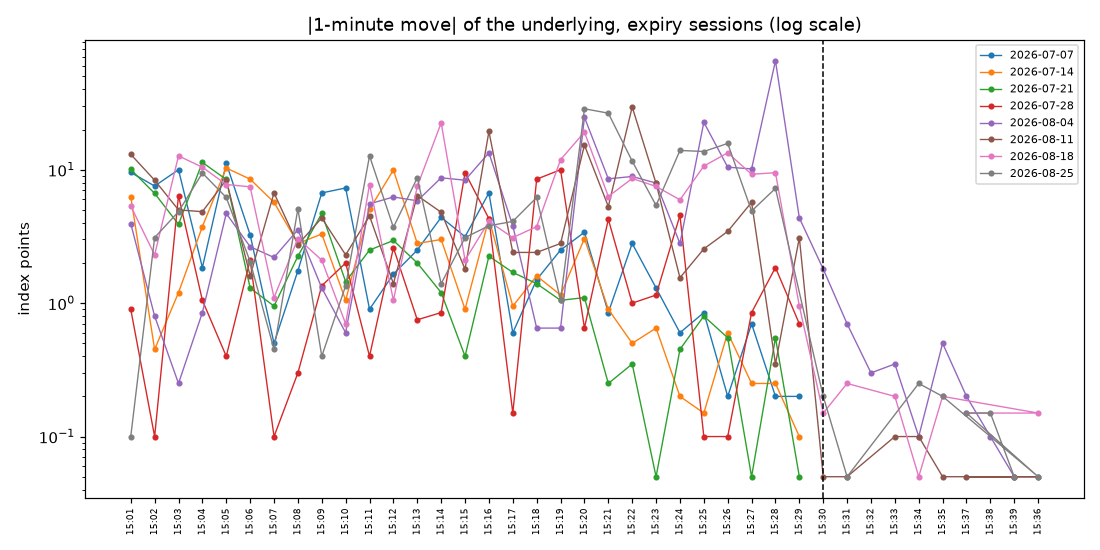
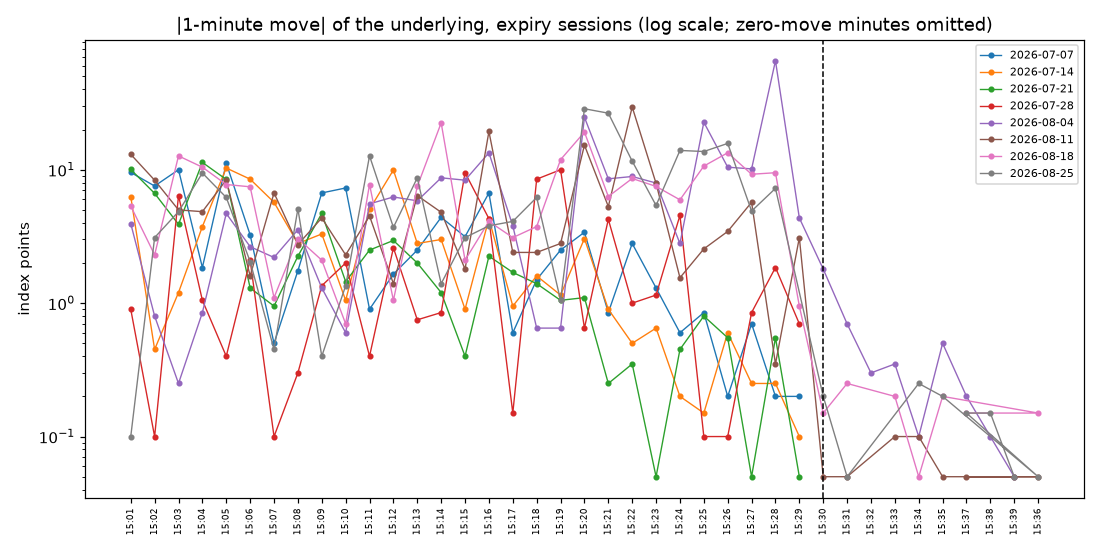
research: incorporate Fable delta review — scope the intrinsic claim, decompose the threshold
Four corrections Fable found, all verified independently before applying.

"Every option at exact intrinsic" was false on its own table: only 23 of 42
contracts settle within 0.10 of intrinsic on 08-27, out-of-the-money contracts
print the 0.05 tick rather than 0.10, and the deep in-the-money wings drift to
+7.35 on puts and -1.85 on calls. That drift is the single auction-window parity
residual above cost, non-persistent, in the thinnest contracts on the board. The
claim is now scoped to the liquid ladder and the exception is named.

The cost threshold was attributed entirely to per-order brokerage. Decomposed,
brokerage is 66.1% of the Sensex threshold and 68% of the Sensex/Nifty gap; the
rest is ad-valorem STT/GST/exchange charge on a 2.5x larger premium, which is
also the whole of the 5.78-7.79 spread within Sensex. The report now carries the
component table, and notes that booking all four opening legs as sells
overstates the threshold by ~7% — which can only hide a residual, never make one.

The normalised auction-range cell in the cross-underlying table was off by a
factor of ten on the Nifty side and carried a percent sign it had not earned,
which made the row assert the opposite of the section's conclusion.

The strategy (b) row pooled pre- and post-CAS sessions into one sum and hit
rate, crossing the regime boundary the report forbids crossing elsewhere, and
left two quarantined sessions unlabelled inside the pooled figure.
[…]

Changed region(s): [[0.1545, 0.0309, 0.8964, 0.0618]]

diff --git a/tests/test_expiry_cas.py b/tests/test_expiry_cas.py
@@ -151,7 +151,10 @@ def test_the_movement_series_never_splices_the_feed_into_the_parity_level(tmp_pa
     second minute. A single-source series differences to zero throughout.
     """
     level = 77_150.0
-    minutes = [dt.time(15, 28), dt.time(15, 29), dt.time(15, 30), dt.time(15, 31)]
+    # A bar at or before 15:00 is required for the anchor to be struck from the broadcast
+    # level, which is the path production takes; without one the loader falls back to the
+    # index symbol's own last bar and the fixture would not exercise the same code.
+    minutes = [dt.time(15, 0), dt.time(15, 28), dt.time(15, 29), dt.time(15, 30), dt.time(15, 31)]
     session = _load(tmp_path, monkeypatch, implied_by_minute=dict.fromkeys(minutes, level))
 
     best = session.spot["best"]
@@ -174,7 +177,7 @@ def test_parity_residuals_drop_the_strike_the_spot_was_built_from(tmp_path, monk
     from analyze import parity_residuals
 
     level = 77_150.0
-    minutes = [dt.time(15, 20), dt.time(15, 21)]
+    minutes = [dt.time(15, 0), dt.time(15, 20), dt.time(15, 21)]
     skew = {77_000.0: 3.0, 77_100.0: 1.0, 77_200.0: 5.0, 77_300.0: 9.0, 76_900.0: 7.0}
     session = _load(
         tmp_path,
@@ -260,20 +263,30 @@ def test_the_cost_threshold_is_strict_and_scales_with_lot_size():
     # Per-order brokerage is a flat rupee charge, so spreading it over more units lowers the
     # per-unit threshold. A Sensex lot of 20 therefore carries a several-times-higher
     # threshold than a Nifty lot of 65 with no difference in market conditions.
-    small_lot = roundtrip_cost_points(session, legs=4, notional=77_000.0, premium=50.0)
-    big = SessionData(
-        underlying="NIFTY",
-        session_date=SESSION_DATE,
-        status="published",
-        chain=pd.DataFrame(),
-        index=pd.Series(dtype=float),
-        spot=pd.DataFrame(),
-        lot_size=65,
-        front_expiry=SESSION_DATE,
-        parity_anchor_strike=ANCHOR,
+    def cost_at_lot(lot: int) -> float:
+        sized = SessionData(
+            underlying=UNDERLYING,
+            session_date=SESSION_DATE,
+            status="published",
+            chain=pd.DataFrame(),
+            index=pd.Series(dtype=float),
+            spot=pd.DataFrame(),
+            lot_size=lot,
+            front_expiry=SESSION_DATE,
+            parity_anchor_strike=ANCHOR,
+        )
+        return roundtrip_cost_points(sized, legs=4, notional=77_000.0, premium=50.0)
+
+    sensex_lot, nifty_lot, double_lot = cost_at_lot(20), cost_at_lot(65), cost_at_lot(130)
+    assert sensex_lot > nifty_lot > double_lot
+    # Every other component is ad-valorem on premium or notional, so it is identical per
+    # unit at any lot size. The lot-dependent part is therefore a flat per-order charge
+    # spread over units, and the cost differences must be exactly linear in 1/lot. Pinning
+    # the shape rather than a rate keeps the test honest if a statutory rate is revised.
+    per_unit_order_charge = (sensex_lot - nifty_lot) / (1 / 20 - 1 / 65)
+    np.testing.assert_allclose(
+        (nifty_lot - double_lot) / (1 / 65 - 1 / 130), per_unit_order_charge, rtol=1e-9
     )
-    big_lot = roundtrip_cost_points(big, legs=4, notional=77_000.0, premium=50.0)
-    assert small_lot > big_lot
 
     # A position sold back in the market pays 2*legs trades and no settlement event, so its
     # cost is linear in the leg count.

diff --git a/research/expiry_cas/analyze.py b/research/expiry_cas/analyze.py
@@ -770,7 +770,12 @@ def make_figures(sessions: list[SessionData], outdir: Path) -> list[str]:
         )
     ax.axvline("15:30", color="k", ls="--", lw=1)
     ax.set_yscale("log")
-    ax.set_title("|1-minute move| of the underlying, expiry sessions (log scale)")
+    # Zero-move minutes are dropped because a log axis cannot render them, so a window can
+    # plot fewer points than it has minutes. The title says so: a reader counting marks in
+    # the auction window would otherwise read a missing point as a missing bar.
+    ax.set_title(
+        "|1-minute move| of the underlying, expiry sessions (log scale; zero-move minutes omitted)"
+    )
     ax.set_ylabel("index points")
     ax.tick_params(axis="x", rotation=90, labelsize=6)
     ax.legend(fontsize=7)

diff --git a/research/expiry_cas/REPORT.md b/research/expiry_cas/REPORT.md
@@ -10,7 +10,7 @@ The owner's ask: *"fetch option chain of Sensex and Nifty for Thursday August 27
 
 **Sensex 2026-08-27 was genuinely wild, and the wildness was over before the auction opened.**
 
-The underlying fell **382.35 points from 15:00 to the close** (77,315.95 → 76,933.60, −0.49%), of which **−325.00 landed inside 15:20–15:29**, including **−194.60 in the single minute 15:25→15:26**. Then, across the whole closing-auction window 15:30–15:39, the underlying moved a **total range of 0.95 points** — 0.0012% — and **every option on the ladder traded at exact intrinsic** against the 15:29 level.
+The underlying fell **382.35 points from 15:00 to the close** (77,315.95 → 76,933.60, −0.49%), of which **−325.00 landed inside 15:20–15:29**, including **−194.60 in the single minute 15:25→15:26**. Then, across the whole closing-auction window 15:30–15:39, the underlying moved a **total range of 0.95 points** — 0.0012% — and **every option across the liquid ladder traded at intrinsic to the tick** against the 15:29 level. (Scoped precisely in §1.5: 23 of 42 contracts settle within 0.10 of intrinsic and every out-of-the-money one prints the 0.05 tick, while the deep in-the-money wings drift up to 7.35 points rich on puts and 1.85 cheap on calls at the thinnest volume on the board.)
 
 The owner saw real fluctuation and attributed it to the wrong window. The same shape holds on all four post-CAS Sensex expiries, and it is the same shape the Nifty pass found at roughly three times the point amplitude — because the index is three times higher. Normalised, the two markets are indistinguishable (§3).
 
@@ -35,14 +35,14 @@ Corpus: `/home/qa/runtime/data/backtest/datasets/dhan/SENSEX/`, 32 sessions 2026
 
 **The effective sample for the owner's question is n = 4** published post-CAS expiries. **Q** marks a quarantined session in every table below; both quarantined sessions are pre-CAS and cannot speak to the auction question at all.
 
-Facts held constant: strike step **100**, lot size **20** (read from each session's own refdata), 29 strikes on the ladder, `minute_ts` in microseconds. **The `SENSEX` index symbol stops printing at 15:29 on every session**, so the entire auction window's underlying is derived from the ATM pair by put-call parity, `S = C − P + K`. The feed and the parity series are **never mixed inside one range or difference** — see §4.
+Facts held constant: strike step **100**, lot size **20** (read from each session's own refdata), 29 strike-and-type contracts in the file (21 strikes × 2 types survive into the auction window on 08-27), `minute_ts` in microseconds. **The `SENSEX` index symbol stops printing at 15:29 on every session**, so the entire auction window's underlying is derived from the ATM pair by put-call parity, `S = C − P + K`. The feed and the parity series are **never mixed inside one range or difference** — see §4.
 
 ## 1.2 Per-session summary
 
 Index points. **The two range columns are different measurements, not a cross-check.**
 
 - `range (parity)` differences the **anchor pair's** parity level. One source, every minute; all 40 minutes present on every post-CAS session.
-- `range (feed)` is the index feed's own fresh prints. On post-CAS sessions the feed is fresh only **15:00–15:14 and then a single print at 15:29** (24 of 40 minutes stale). Its "range" is therefore mostly **the step down to that one settlement print**, not observed movement: on 08-27 the fresh prints 15:00–15:14 span 83 points and the remaining 249 of the 332.09 is the gap to the 15:29 print. **Do not read this column as a second estimate of volatility.**
+- `range (feed)` is the index feed's own fresh prints. On post-CAS sessions the feed is fresh only **15:00–15:14 and then a single print at 15:29** (23–24 of 40 minutes stale). Its "range" is therefore mostly **the step down to that one settlement print**, not observed movement: on 08-27 the fresh prints 15:00–15:14 span **84.07** points and the remaining **248.02** of the 332.09 is the gap to the 15:29 print. **Do not read this column as a second estimate of volatility.**
 
 TV is the ATM straddle less intrinsic at the strike ATM at 15:00.
 
@@ -61,7 +61,7 @@ TV is the ATM straddle less intrinsic at the strike ATM at 15:00.
 † See the caveat above — not an independent volatility estimate on post-CAS sessions.
 ‡ Control auction ranges are **not comparable** to the expiry ones: parity is exact at T→0 on an expiry chain but a vega-noisy, level-biased proxy on a chain with days left. Both columns are single-source, so the controls are a valid *shape* comparison for 15:00–15:29 only.
 
-**Reading it.** The auction window is flat to **within one point** on every Sensex expiry, against 82.85–474.00 points in the preceding half hour of the same sessions — a ratio of **100× to 1,350×**. The controls show the half hour is not simply always calm: on a non-expiry day the auction window carries 45–59 points of proxy noise, which is what the *absence* of a pinned settlement looks like.
+**Reading it.** The auction window is flat to **within one point** on every Sensex expiry, against 82.85–474.00 points in the preceding half hour of the same sessions. Per session the range ratio is **1,354× / 262× / 331× / 493×** (08-06 / 08-13 / 08-20 / 08-27). The controls show the half hour is not simply always calm: on a non-expiry day the auction window carries 45–59 points of proxy noise, which is what the *absence* of a pinned settlement looks like.
 
 TV at 15:29/15:39 sits at 0.1–1.8 on every expiry session. That is **a consistency check, not a finding** — parity forces straddle = |S−K| at expiry. **TV at 15:00 is the real measurement** (31.10–341.00). The pre/post gap is not read as a market change here: pre-CAS settlement is a different statistic, so the two are not the same quantity.
 
@@ -91,11 +91,11 @@ Anchor strike 77,200; level from the ATM pair's parity. The feed is shown nowher
 
 **What actually moved, and when.** The first twenty minutes are quiet — 77,316 drifting to 77,259, largest minute −33.60. The session breaks at **15:20 (−96.15)**, steadies three minutes, then sells off hard: **15:24 −71.55, 15:26 −194.60, 15:27 −101.20**, bottoming at 76,847.60 before a two-minute bounce to **76,933.60 at 15:29**. Total 15:20–15:29: **−325.00 points — 85% of the half hour's whole move, in ten minutes.**
 
-**Then it stops dead.** Across 15:30–15:39 the largest single minute is **0.80 points** and the total range is **0.95**. Per minute, the auction window's movement is **1/243rd** of the preceding ten minutes'.
+**Then it stops dead.** Across 15:30–15:39 the largest single minute is **0.80 points** and the total range is **0.95**. Mean |Δ1min| is **63.88 points** over 15:20–15:29 against **0.275** over 15:30–15:39 — a factor of **232**.
 
-**Two corroborations that the number was already fixed at 15:29.** First, the index feed — which has run a median **−54.71 points** away from the parity level all day (§4) — prints **76,933.59** at 15:29 against a parity level of **76,933.60**: agreement to **0.01 of a point**, after disagreeing by tens of points on every fresh minute before it. The same convergence holds on the other three post-CAS expiries (|feed − parity| at 15:29 = 0.29 / 0.61 / 0.42). Second, every option in the window prices at exact intrinsic against that number — CE 76900 → 33.50 (intrinsic 33.60), PE 77000 → 66.30 (66.40), PE 77100 → 166.30 (166.40), and every call at 77,000 and above and every put at 76,900 and below → 0.10.
+**Two corroborations that the number was already fixed at 15:29.** First, the index feed — which has run a median **−54.71 points** away from the parity level all day (§4) — prints **76,933.59** at 15:29 against a parity level of **76,933.60**: agreement to **0.01 of a point**, after disagreeing by tens of points on every fresh minute before it. The same convergence holds on the other three post-CAS expiries (|feed − parity| at 15:29 = 0.29 / 0.61 / 0.42). Second, the liquid ladder prices at intrinsic to the tick against that number — CE 76900 → 33.45 (intrinsic 33.60), PE 77000 → 66.35 (66.40), PE 77100 → 166.35 (166.40), and every out-of-the-money contract — all calls at 77,000 and above, all puts at 76,900 and below — prints the **0.05** tick.
 
-**The auction window is not empty — it is enormous and it is uniform.** **416 of 420** strike-minutes trade with volume in 15:30–15:39. The volume field decays monotonically from the 15:30 bar to the 15:39 bar in a ratio of **39.6 : 1**, with **~38% of the window's total in its first minute**. (Only the shape is claimed; the absolute vendor volume figures are left uninterpreted.) A window with very heavy participation, complete price agreement, and nothing to arbitrage — the opposite of the dislocation the strategy thesis needs.
+**The auction window is not empty — it is enormous and it is uniform.** **416 of 420** contract-minutes trade with volume in 15:30–15:39 (21 strikes × 2 types × 10 minutes). The volume field decays monotonically from the 15:30 bar to the 15:39 bar in a ratio of **39.6 : 1**, with **~38% of the window's total in its first minute**. (Only the shape is claimed; the absolute vendor volume figures are left uninterpreted.) A window with very heavy participation, complete price agreement, and nothing to arbitrage — the opposite of the dislocation the strategy thesis needs.
 
 ---
 
@@ -128,22 +128,36 @@ Traded-bars gate throughout: every leg printed volume that minute. **The box res
 | Relation | 15:00–15:29 | 15:30–15:39 |
 |---|---|---|
 | parity (anchor excluded) | median 1.35–2.45, **9.6–20.1% > cost**, 3–21 persistent | median 0.50–0.65, **0–0.5% > cost**, **0 persistent** |
-| butterfly CE | median 0.00, 5.3–6.2% > cost, 4–8 persistent | median 0.00, **0.0% > cost**, **0 persistent** |
-| butterfly PE | median 0.00, 2.6–6.7% > cost, 0–6 persistent | median 0.00, 0–0.6% > cost, **0 persistent** |
+| butterfly CE | median 0.00, 4.2–6.2% > cost, 4–8 persistent | median 0.00, **0.0% > cost**, **0 persistent** |
+| butterfly PE | median 0.00, 2.6–6.7% > cost, 1–6 persistent | median 0.00, 0–0.6% > cost, **0 persistent** |
 | vertical CE | median 0.00, 1.7–3.9% > cost, 1–5 persistent | median 0.00, **0.0% > cost**, **0 persistent** |
 | vertical PE | median 0.00, 0.5–4.0% > cost, 0–4 persistent | median 0.00, **0.0% > cost**, **0 persistent** |
 
 Every relation agrees, including the two genuinely independent of the parity family: the auction window carries no residual above cost.
 
-**The cost threshold is a per-unit, one-lot figure and is not size-invariant.** It runs **5.78–7.79 points** on Sensex against **1.8–2.5** on Nifty. That gap is **not a market difference** — it is ₹20/order brokerage spread over a lot of **20** units instead of **65**. Larger orders lower it proportionally and every `% > cost` rises accordingly. The threshold is applied strictly (`> cost`, not `≥`).
+**The cost threshold is a per-unit, one-lot figure and is not size-invariant.** It runs **5.78–7.79 points** on Sensex against **1.8–2.5** on Nifty. Decomposing the 4-leg round trip per unit:
 
-**Costs, and the one substitution made.** The repo's statutory stack (`src/xman_research/backtest/costs.py`) carries no BSE-specific transaction-charge schedule, so **`nse.transaction_charge.options` is used for the BSE legs**. Everything else in the stack — STT (including exercise STT at 0.15% of intrinsic from 2026-04-01), stamp duty, GST, SEBI turnover fee, brokerage — is statutory or broker-side and exchange-independent. The exchange transaction charge is a small share of a threshold that per-order brokerage dominates, so the substitution moves the threshold by a fraction of a point; **the direction of the error is unknown**, since BSE's own rate is not established here.
+| Component | Sensex 08-27 (premium 135.12, lot 20) | Nifty 08-04 (premium 53.10, lot 65) |
+|---|---|---|
+| brokerage (₹20/order) | **4.000 — 66.1%** | **1.231 — 62.6%** |
+| STT | 0.811 — 13.4% | 0.319 — 16.2% |
+| GST | 0.768 — 12.7% | 0.239 — 12.2% |
+| exercise STT | 0.203 — 3.4% | 0.080 — 4.0% |
+| exchange transaction charge | 0.189 — 3.1% | 0.074 — 3.8% |
+| SEBI turnover fee | 0.077 — 1.3% | 0.025 — 1.3% |
+| **total** | **6.048** | **1.968** |
+
+**The gap is not a market difference, but it is not all brokerage either.** Per-order brokerage is a flat ₹20 spread over 20 units instead of 65, which is **3.25× per unit and accounts for 68% of the 4.08-point gap**. The remaining 1.31 points is STT, GST and exchange charge scaling with an ATM premium that is 2.5× higher (135.12 vs 53.10) — an ad-valorem effect, not a dislocation. The same arithmetic explains the **5.78–7.79 spread within Sensex**: brokerage is a flat 4.000 on every session, so the whole 2-point spread is premium (08-06 carries a 325.12 premium against 08-27's 135.12, and its STT alone is 1.951 against 0.811). Larger orders lower the brokerage share proportionally and every `% > cost` rises accordingly. The threshold is applied strictly (`> cost`, not `≥`).
+
+**Costs, and the one substitution made.** The repo's statutory stack (`src/xman_research/backtest/costs.py`) carries no BSE-specific transaction-charge schedule, so **`nse.transaction_charge.options` is used for the BSE legs**. That component is **3.1% of the Sensex threshold (0.19 points, rising to 0.46 on the highest-premium session)**, so the substitution moves the threshold by a fraction of a point; **the direction of the error is unknown**, since BSE's own rate is not established here. STT, exercise STT (0.15% of intrinsic from 2026-04-01), stamp duty and the SEBI turnover fee are statutory and exchange-independent; GST is levied on brokerage plus the exchange charge plus the SEBI fee, so it carries a small share of the same uncertainty.
+
+**The threshold is conservative in one respect that is not corrected here.** `roundtrip_cost_points` books all four opening legs as `Side.SELL`, so premium STT (sell-side only) is charged on the two legs a box actually buys, and buy-side stamp duty on none. That overstates the Sensex 08-27 threshold by ≈0.4 points (≈7%). Overstating the threshold can only *hide* a residual above cost, never manufacture one, so it cannot flatter the "zero above cost in the auction window" result.
 
 ## 1.5 The per-strike "wild swings" — lottery and crush, 15:25 → 15:39
 
 This is where the owner's visual impression comes from, and it is worth separating from the underlying's behaviour.
 
-| Date | strikes | median return | to zero (≤ −95%) | best | multibag (≥ +100%) |
+| Date | contracts | median return | to zero (≤ −95%) | best | multibag (≥ +100%) |
 |---|---|---|---|---|---|
 | 2026-08-06 | 38 | **−87.15%** | **50.0%** | +19.35% | 0.0% |
 | 2026-08-13 | 38 | −58.72% | 10.5% | **+515.00%** | 5.3% |
@@ -152,16 +166,18 @@ This is where the owner's visual impression comes from, and it is worth separati
 
 **08-27 in full** (15:25 → 15:39, settlement 76,933.60):
 
-| CE strike | 15:25 → 15:39 | | PE strike | 15:25 → 15:39 |
+| CE strike | 15:25 → 15:39 (vs intrinsic) | | PE strike | 15:25 → 15:39 (vs intrinsic) |
 |---|---|---|---|---|
-| 76200 | 952.2 → 732.8 (−23%) | | 76200–76900 | 4.8–30.2 → **0.1 (−99 to −100%)** |
-| 76500 | 650.1 → 432.8 (−33%) | | 77000 | 52.4 → 66.3 (**+27%**) |
-| 76800 | 347.2 → 133.3 (−62%) | | **77100** | 76.8 → 166.3 (**+116%**) |
-| 76900 | 269.9 → 33.5 (−88%) | | **77200** | 126.3 → 265.9 (**+110%**) |
-| **77000–77900** | 182.3–2.1 → **0.1 (−98 to −100%)** | | 77300 | 200.0 → 367.0 (+84%) |
-| | | | 77900 | 782.5 → 971.6 (+24%) |
+| 76200 | 952.20 → 732.75 (−23%, −0.85) | | 76200–76900 | 4.8–30.2 → **0.05 (−99 to −100%)** |
+| 76500 | 650.10 → 432.80 (−33%, −0.80) | | 77000 | 52.40 → 66.35 (**+27%**, −0.05) |
+| 76800 | 347.20 → 133.30 (−62%, −0.30) | | **77100** | 76.80 → 166.35 (**+116%**, −0.05) |
+| 76900 | 269.90 → 33.45 (−88%, −0.15) | | **77200** | 126.30 → 265.90 (**+110%**, −0.50) |
+| **77000–77900** | 182.3–2.1 → **0.05 (−98 to −100%)** | | 77500 | 365.90 → 568.55 (+55%, **+2.15**) |
+| | | | **77800** | 665.90 → 873.75 (+31%, **+7.35**) |
 
-**Half the ladder went to zero and two strikes more than doubled, in fourteen minutes.** That is the "wild swing" the owner saw. It is **neither volatility nor arbitrage** — it is the deterministic collapse of every option to |S−K| against a settlement value already determined by 15:29. Every exit price above is intrinsic to within 0.1. There was no dispersion to trade.
+**Half the ladder went to the 0.05 tick and two strikes more than doubled, in fourteen minutes.** That is the "wild swing" the owner saw. It is **neither volatility nor arbitrage** — it is the deterministic collapse of every option to |S−K| against a settlement value already determined by 15:29.
+
+**How exact is "exact intrinsic"? Precisely this exact.** Across the 42 contracts trading at 15:39, **23 settle within 0.10 of intrinsic** and every out-of-the-money one prints the 0.05 tick. The exceptions are the **deep in-the-money wings**, which drift **rich on puts** (+7.35 at PE 77800, +5.25 at PE 77900, +2.15 at PE 77500) and **cheap on calls** (−1.85 at CE 76000, −1.05 at CE 75900) — the thinnest contracts on the board, ~300+ points from the money. That drift is the **single** auction-window parity residual above cost on 08-27 (max_abs 7.85, n_over_cost 1 of 196, **0 persistent**). So the honest form of the claim is: **intrinsic to the tick across the liquid ladder, with one non-persistent deep-ITM residual above cost in 200 strike-minutes** — which still leaves nothing to trade, since it neither repeats nor appears at a strike anyone is quoting size in.
 
 ## 1.6 Candidate strategies, scored on Sensex
 
@@ -170,18 +186,20 @@ Every figure is a **single-path point estimate** at n ≤ 4. There is no dispers
 | # | Strategy | Sensex evidence (₹/lot, lot = 20) | Hit rate | Worst | Verdict |
 |---|---|---|---|---|---|
 | a | Box/parity arb > cost, ≥2-min same-sign persistence | **0 above cost and 0 persistent in 15:30–15:39 on all four** post-CAS expiries; 6 / 8 / 6 / 21 persistent box pairs in 15:00–15:29 | n/a | n/a | **No** — nothing in the window asked about |
-| b | Sell ATM straddle 15:00 → settlement | post-CAS **+5,337 / −2,612 / +1,572 / −1,578** (sum **+2,719**); pre-CAS −2,619 / −268 / −3,152; all seven **−₹3,320** | 2/4 post, **2/7** overall | **−₹3,152** | **No** — see below |
+| b | Sell ATM straddle 15:00 → settlement | **post-CAS +5,337 / −2,612 / +1,572 / −1,578** (sum **+2,719**) — pre-CAS shown separately below, never pooled | **2 / 4** post-CAS | **−₹2,612** (08-13) | **No** — see below |
 | c | Buy 2-strike OTM strangle 15:25 → 15:39 | post-CAS **−3,967 / +1,235 / −444 / −73** (sum **−₹3,249**) | **1 / 4** | −₹3,967 | **No** |
 | d | Fade the first 15:30 auction print | expiry jumps **−0.55 / −0.20 / +0.60 / −0.20** points | n/a | n/a | **No** — sub-point; nothing to fade |
 | e | Delta-hedged gamma scalp | — | — | — | **Not evaluable** — index untradeable, no futures in corpus, no bid/ask |
 
 **On (b), and why the positive post-CAS sum is not a result.** The whole post-CAS sign rests on **08-06's +₹5,337**; drop that session and the remaining three are **−₹2,618**. 08-06 is also the largest-range session (474.00 points) and carries a 15:00 ATM straddle of **424.55** with **341.00** of time value — 0.43% of spot, four times the other three (0.09–0.11%). That entry is **not** a staleness artefact: the anchor pair's 15:00 bar traded on both legs (CE 1,203,300 / PE 1,653,640 units), so the premium is real, and genuinely exceptional. A short straddle remains short gamma into a half hour that ranges 83–474 points.
 
+**Pre-CAS is reported separately and never pooled into the above:** 2026-07-16 **Q** −₹2,619, 2026-07-23 −₹268, 2026-07-30 **Q** −₹3,152 (0 / 3). A 15:00→settlement straddle is paid out *by* the settlement statistic, and the pre-CAS statistic is a different one (§1.2), so a seven-session sum or hit rate would cross exactly the regime boundary this report refuses to cross elsewhere. Two of those three sessions are quarantined besides.
+
 **On (c), the wings are not always wings.** Strikes are `15:00-ATM ± 2`, and the underlying moves before 15:25. Spot at 15:25 against the two wing strikes: on **08-06 the call wing was ITM by 53 points** (entry premium 193.00 — a directional ATM buy, not a lottery ticket, and it is the −₹3,967 loss); on 08-13 the call wing was OTM by only 40; **08-20 and 08-27 were genuinely OTM** (by 322/78 and 257/143). The verdict survives on all four, but only two of the four tested what the description says.
 
-**What survives on Sensex, as on Nifty.** The one repeatable structure is the **premium crush into 15:29** — ATM time value falls from 31–341 points at 15:00 to ≈0.1. Strategy (b) fails to harvest it only because a *fixed* ATM strike is short gamma. A **delta-neutral or strike-following** variant, or an iron-fly capping the 08-06/08-27 tail, is the one candidate worth a real backtest. That is a claim about 15:00–15:29, not about the auction window.
+**What survives on Sensex, as on Nifty.** The one repeatable structure is the **premium crush into 15:29** — post-CAS ATM time value falls from 73.80–341.00 points at 15:00 to ≈0.1–1.8. Strategy (b) fails to harvest it only because a *fixed* ATM strike is short gamma. A **delta-neutral or strike-following** variant, or an iron-fly capping the 08-06/08-27 tail, is the one candidate worth a real backtest. That is a claim about 15:00–15:29, not about the auction window.
 
-**A mechanism the bars are consistent with.** Exercise STT falls on the **long** at 0.15% of intrinsic, so an ITM long has a direct incentive to sell at intrinsic in 15:30–15:39 rather than be exercised — which would explain both the very heavy auction-window volume (416/420 strike-minutes trading) and the exact-intrinsic pin. **A hypothesis the corpus is consistent with, not a tested finding.**
+**A mechanism the bars are consistent with.** Exercise STT falls on the **long** at 0.15% of intrinsic, so an ITM long has a direct incentive to sell at intrinsic in 15:30–15:39 rather than be exercised — which would explain both the very heavy auction-window volume (416/420 contract-minutes trading) and the exact-intrinsic pin. **A hypothesis the corpus is consistent with, not a tested finding.**
 
 ---
 
@@ -193,7 +211,7 @@ Nifty's weekly expiry moved to **Tuesday** in September 2025, so 2026-08-27 was 
 
 ## 2.1 Sessions and their status
 
-`n = 8` expiry sessions, split by a regime boundary that matters more than the sample size: NSE's Closing Auction Session went live **2026-08-03**. Before it, expiring options print **no post-close bars at all**. The owner's question has an effective sample of **three clean post-CAS expiries plus one quarantined one**, not eight.
+`n = 8` expiry sessions, split by a regime boundary that matters more than the sample size: **2026-08-03** is the first session in this corpus with post-close bars. Before it, expiring options print **no post-close bars at all**. (No external source was consulted for a go-live date; this is what the bars show.) The owner's question has an effective sample of **three clean post-CAS expiries plus one quarantined one**, not eight.
 
 | Date | Status | Regime | Expiry session | Auction window |
 |---|---|---|---|---|
@@ -293,18 +311,20 @@ Every figure below is a **single-path point estimate**. There is no dispersion e
 
 # §3 — Does the Sensex auction window differ from Nifty's?
 
-**No. Once the index level is divided out the two are the same market to within noise, and the auction window is if anything tighter on Sensex.**
+**No. Once the index level is divided out the two are indistinguishable at this sample size, and the auction window is if anything tighter on Sensex.** ("Indistinguishable" is a statement about n = 4 against n = 3–4 with no dispersion estimate — see §4 — not a test.)
 
 | Measure | Sensex | Nifty | Normalised (÷ index level) |
 |---|---|---|---|
 | Biggest final-half-hour range | 474.00 (08-06) / 468.35 (08-27) | 147.05 (08-04) | **0.60% vs 0.60%** |
-| Auction-window range, expiry | 0.25–0.95 | 0.10–1.15 | 1.2e-5 % vs 4.7e-6 % |
+| Auction-window range, expiry (widest) | 0.95 | 1.15 | **1.23e-5 vs 4.70e-5 — Sensex 3.8× tighter** |
 | Box residual median, 15:00–15:29 | 1.97 (08-27) | 0.65 (08-04) | **2.55e-5 vs 2.66e-5** |
 | Box residual median, auction | 0.35 | 0.30 | **4.53e-6 vs 1.23e-5** |
 | Box occurrences > cost, auction | **0 on all 4 sessions** | 3 on one of 4 sessions | — |
 | Round-trip cost threshold | 5.78–7.79 pts | 1.8–2.5 pts | lot 20 vs 65 — not a market difference |
 
-**The two figures that look like a Sensex/Nifty difference are both arithmetic.** Sensex box residuals appear 3× Nifty's only because the index is 3× higher — normalised they are **2.55e-5 vs 2.66e-5**, indistinguishable. The cost threshold appears 3× higher for the same reason in reverse: ₹20/order brokerage spread over 20 units instead of 65. **A reader taking the raw point figures at face value would conclude Sensex is three times more dislocated, which is the opposite of what the data says** — in the auction window the Sensex box residual is normalised **2.7× tighter** than Nifty's, with zero occurrences above cost on all four sessions against three on one Nifty session.
+**The two figures that look like a Sensex/Nifty difference are both arithmetic.** Sensex box residuals appear 3× Nifty's only because the index is 3× higher — normalised they are **2.55e-5 vs 2.66e-5**. The cost threshold is 3× higher mostly for the reverse reason: **68% of that gap is ₹20/order brokerage** spread over 20 units instead of 65, and the remaining 1.31 points is ad-valorem STT/GST/exchange charge on a 2.5× larger premium (§1.4). **A reader taking the raw point figures at face value would conclude Sensex is three times more dislocated, which is the opposite of what the data says** — in the auction window the Sensex box residual is normalised **2.7× tighter** than Nifty's, with zero occurrences above cost on all four sessions against three on one Nifty session.
+
+**The direction survives every pairing, but "tighter" is a choice of scale.** Auction box medians are 0.40 / 0.25 / 0.35 / 0.35 on Sensex against 0.30 / 0.15 / 0.15 / 0.20 on Nifty; divided by index level that is 3.2–5.2e-6 against 6.1–12.3e-6, so Sensex is tighter on **every** session pairing, not just the two quoted. Two other scales say otherwise and are named rather than buried: **in ticks** both markets quote in 0.05, so the Sensex medians are 5–8 ticks against Nifty's 3–6 — Sensex is *wider*; **relative to its own cost threshold** Sensex is 0.35/6.05 = 5.8% against Nifty's 0.30/1.97 = 15.2% — tighter again. Index level is the right denominator for a *price-error* statistic, because a put-call parity violation is an error in a quantity denominated in index points and scales with the level. Tick count is the right denominator for a *quotation-granularity* question, which is not the question here.
 
 **On BSE auction mechanics.** The bars support one structural statement and no more: on Sensex expiry sessions the index feed's final print at 15:29 agrees with the chain's implied level to **0.01–0.61 points**, after running a median 15–55 points away from it all day, and every option then trades at exact intrinsic against that number for ten minutes on very heavy volume. That is what a **settlement value determined at or before 15:30** looks like from the bars. Whether BSE's rule fixes it at 15:29, or the auction's indicative price simply never moves, is **not distinguishable from this corpus**, and no external source was consulted. Nifty shows the same pattern, so nothing here is a BSE-specific mechanism — the two exchanges' auction windows are not observably different in this data.
 
@@ -315,7 +335,7 @@ Every figure below is a **single-path point estimate**. There is no dispersion e
 - **Sample size.** Four published post-CAS Sensex expiries and three published post-CAS Nifty ones (08-04, 08-11, 08-18) plus one quarantined Nifty session. Every auction-window conclusion rests on **n = 4** and **n = 3** respectively. Pre-CAS sessions cannot speak to the auction question at all.
 - **Quarantine.** Sensex 07-16 and 07-30 are quarantined and labelled **Q** in every table; both are pre-CAS, so neither contributes to an auction-window claim. Nifty 2026-08-25 failed publication at 61.3% spot coverage and its index feed dies at 13:04; it is shown because it is the Nifty expiry nearest the owner's date, not because it is sound.
 - **Settlement rules are UNVERIFIED**, and the headline depends on which reading is right — see the note under the headline. `settlement.py` records NSE's post-CAS rule as UNVERIFIED; no BSE rule, pre- or post-CAS, is established here. No external sources were consulted for this pass. This is the largest single caveat in the report.
-- **One source per series, always.** The feed freezes (~23–24 of 40 minutes post-CAS on both underlyings; on Sensex the index symbol stops entirely at 15:29), and parity sits tens of points from it. A movement series assembled from whichever source looked better each minute reports that offset as volatility. Every series here is the **anchor pair's parity level** throughout; the feed appears only in its own labelled column and is never differenced against parity. An earlier cut of the Nifty pass **spliced the two**, manufacturing a −136.75-point "1-minute move" on 08-26 and inflating control ranges 2–4× (169.60 where the single-source figure is 40.10).
+- **One source per series, always.** The feed freezes (~23–24 of 40 minutes post-CAS on both underlyings; on Sensex the index symbol stops entirely at 15:29), and parity sits tens of points from it. A movement series assembled from whichever source looked better each minute reports that offset as volatility. Every series here is the **anchor pair's parity level** throughout; the feed appears only in its own labelled column and never enters the *movement* series. (Feed and parity are compared as levels in this section and in §1.3 — that is a diagnostic of the offset, not a series anything is differenced along.) An earlier cut of the Nifty pass **spliced the two**, manufacturing a −136.75-point "1-minute move" on 08-26 and inflating control ranges 2–4× (169.60 where the single-source figure is 40.10).
 - **The feed/parity offset is unexplained, and it is present on Sensex expiry sessions too.** Median feed − parity over fresh-feed minutes on the four post-CAS Sensex expiries: **−14.93 / −30.08 / −21.78 / −54.71** points, ranging −110 to +43 within a session. Intraday carry on an expiring chain is essentially zero, so **this is not the forward term** — it is the same unexplained offset the Nifty control sessions show, now appearing where the report elsewhere calls parity "exact at T→0". A lag search (`feed.shift(−k)` against parity, k = 0…7) finds **no lag that reduces it**; k = 0 minimises on three of four sessions, so it is a level effect, not a broadcast delay. Consequences: (a) the `range (feed)` column on post-CAS sessions is **not** an independent volatility estimate and is labelled as such; (b) "exact at T→0" holds for the *auction window*, where feed and parity converge to ≤0.61 points and every option is at intrinsic, but **not** for the earlier part of the day. On Nifty controls the same offset runs 65–88 points; an earlier cut attributed it to carry, which is wrong (carry on a 6-day, 6.5% basis at 24,300 is ≈26 points, and the spread of 65…136 within one day is not the near-constant a carry term would be).
 - **The 08-04 Nifty feed jump, stated precisely.** The feed's catch-up print at 15:28 was **+151.45** after twelve frozen minutes. Parity attributes **+65.60** to 15:28 itself and the rest to 15:24–15:27. The 65.60 in §2.2 is a real one-minute move; the 151.45 would not have been.
 - **Parity circularity.** The movement series is the **anchor pair's** parity level, and the anchor strike is excluded mechanically from parity residuals — so the excluded strike really is the one whose residual is zero by construction. An earlier cut used the cross-strike *median* as the level while excluding the anchor, leaving manufactured zeros in (7.6% of rows on 08-04) and biasing the distribution low. `tests/test_expiry_cas.py` now pins this.
@@ -323,7 +343,7 @@ Every figure below is a **single-path point estimate**. There is no dispersion e
 - **Bar-close fill optimism.** No bid/ask in this corpus. Every residual and P&L assumes a simultaneous fill at the bar close on all legs, which is exactly what a real spread trade violates. All "capturable" figures are **upper bounds**. Two-minute persistence is weak evidence, and the volume figures are per-minute strike totals, not depth at one price.
 - **Cost threshold is one-lot and not size-invariant**, and is dominated by per-order brokerage (§1.4). Exercise STT is **0.15% of intrinsic** from 2026-04-01 (every session here is later) and falls on the **long**; a short straddle is assigned, flattens with a BUY, and owes none. **The BSE exchange transaction charge is substituted with NSE's** — the stack carries no BSE schedule — and the direction of that error is unknown.
 - **Single-path point estimates.** No dispersion estimate exists at n ≤ 4. Where one session determines a sign it is named: **08-06** for Sensex strategy (b), **08-04** for Nifty strategy (c).
-- **The volume field is uninterpreted.** Only its shape (monotone decay, 39.6:1 across the Sensex 08-27 auction window) and traded-bar counts (416/420) are claimed.
+- **The volume field is uninterpreted.** Only its shape (monotone decay, 39.6:1 across the Sensex 08-27 auction window) and traded-bar counts (416 of 420 contract-minutes) are claimed.
 - **Refdata exchange labels.** The Sensex refdata bundles carry `NSE`/`NFO` exchange labels. Cosmetic in this corpus — lot size, strikes and expiry all parse correctly — and ignored.
 
 ---
